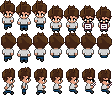
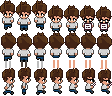
fix: Patch walk-up PNG sprites — add missing legs between body and shoes
All 6 sprite sheets had walk-up frames (row 2) with body pixels at
y=0-10 and shoes at y=21-23 but NOTHING in between (y=11-20).
This gap made the character look broken when walking up.

Fix: Python script filled in pants/leg pixels (from walk-down color
palette) in the empty gap area for all 7 frames across all 6 sheets.
Removed the skipPng hack — PNG sprites now used for all directions.

diff --git a/src/dashboard/pages/office/OfficeCanvasRenderer.ts b/src/dashboard/pages/office/OfficeCanvasRenderer.ts
@@ -178,11 +178,7 @@ export function drawAgent(ctx: CanvasRenderingContext2D, agent: CanvasAgent, tic
   }
 
   // --- Draw PNG sprite (or fallback) ---
-  // Skip PNG for walk-up (row 2): the PNG back-view sprites have a gap between
-  // body (rows 0-12) and shoes (rows 21-23) — missing legs. Code-generated
-  // fallback has properly connected body+legs for back view.
-  const skipPng = frameRow === 2;
-  let drawn = skipPng ? false : drawSpriteFrame(ctx, agent.id, frameCol, frameRow, drawX, drawY, DW, DH, mirror);
+  let drawn = drawSpriteFrame(ctx, agent.id, frameCol, frameRow, drawX, drawY, DW, DH, mirror);
 
   if (!drawn) {
     const sprites = getAgentSprites(agent.id);
